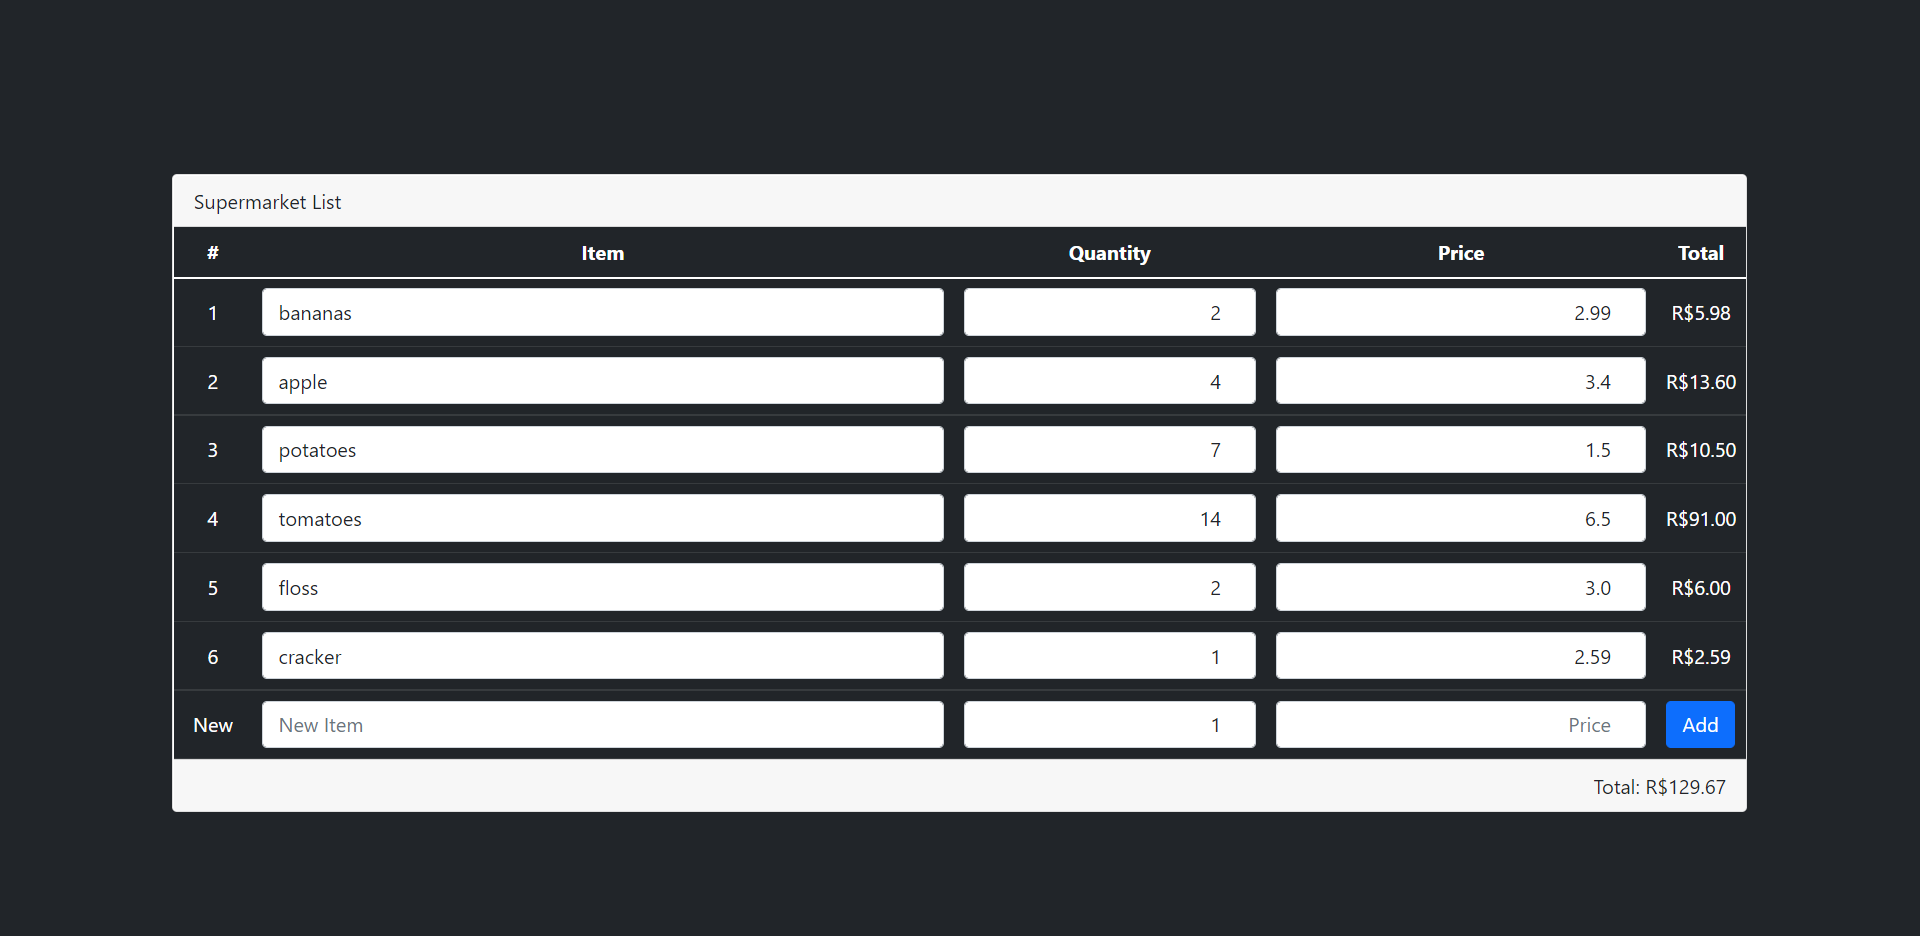
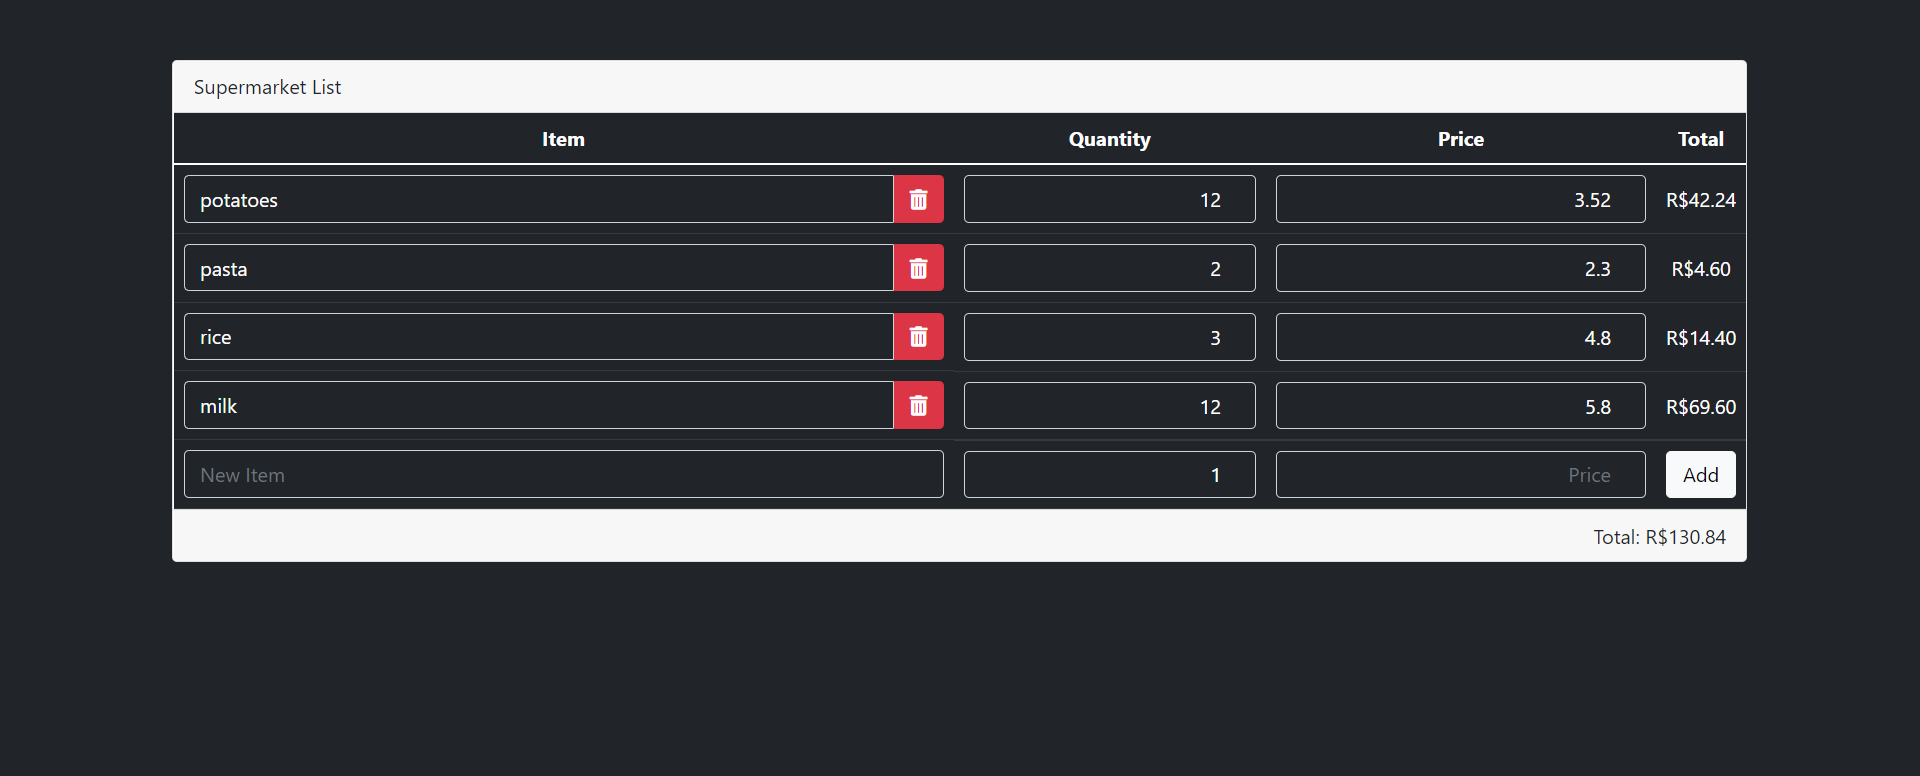
Improved style, added button to remove item and fixed bug where cache was not allowing page to update to newest version

diff --git a/content/index.html b/content/index.html
@@ -6,6 +6,7 @@
     <title>Supermarket List</title>
     <link href="https://cdn.jsdelivr.net/npm/bootstrap@5.1.3/dist/css/bootstrap.min.css" rel="stylesheet"
           integrity="sha384-1BmE4kWBq78iYhFldvKuhfTAU6auU8tT94WrHftjDbrCEXSU1oBoqyl2QvZ6jIW3" crossorigin="anonymous">
+    <link href="https://cdnjs.cloudflare.com/ajax/libs/font-awesome/5.13.0/css/all.min.css" rel="stylesheet">
     <link rel="stylesheet" href="/content/custom.css">
 </head>
 <body>
@@ -13,59 +14,57 @@
     <div class="row">
         <div class="col-md-1"></div>
         <div class="col-md-10">
-            <div class="card mx-2">
+            <div class="card mx-2 my-5">
                 <div class="card-header">
                     Supermarket List
                 </div>
                 <div class="card-body p-0">
                     <table class="table table-dark m-0">
                         <thead class="text-center">
-                        <th style="width: 5%;">#</th>
-                        <th style="width: 45%;">Item</th>
+                        <th style="width: 50%;">Item</th>
                         <th style="width: 20%;">Quantity</th>
                         <th style="width: 25%;">Price</th>
                         <th style="width: 5%;">Total</th>
                         </thead>
                         <tbody>
+                        {% for item in supermarket_list %}
                         <tr>
-                            {% for item in supermarket_list %}
-                                <tr>
-                                    <td class="text-center align-middle">
-                                        <span>{{loop.index}}</span>
-                                    </td>
-                                    <td>
-                                        <input class="form-control item" type="text" placeholder="Item"
-                                               name="Name" value="{{item.Name}}" onchange="changeItem(this)">
-                                    </td>
-                                    <td>
-                                        <input class="form-control item text-end" type="number" placeholder="Quantity"
-                                               name="Quantity" value="{{item.Quantity}}" onchange="changeItem(this)">
-                                    </td>
-                                    <td>
-                                        <input class="form-control item text-end" type="number" placeholder="Price"
-                                               name="Price" value="{{item.Price}}" onchange="changeItem(this)">
-                                    </td>
-                                    <td class="text-center align-middle">
-                                        {{item.TotalFormat}}
-                                    </td>
-                                </tr>
-                            {% endfor %}
-
-                        <td class="text-center align-middle">
-                            New
-                        </td>
-                        <td>
-                            <input class="form-control new-item" type="text" placeholder="New Item" name="Name">
-                        </td>
-                        <td>
-                            <input class="form-control new-item text-end" type="number" placeholder="Quantity" name="Quantity" value="1">
-                        </td>
-                        <td>
-                            <input class="form-control new-item text-end" type="number" placeholder="Price" name="Price">
-                        </td>
-                        <td class="text-start">
-                            <button class="btn btn-primary" type="button" onclick="newItem()">Add</button>
-                        </td>
+                            <td class="d-flex">
+                                <input type="hidden" name="Index" value="{{loop.index}}">
+                                <input class="form-control item w-100 input-with-btn" type="text" placeholder="Item"
+                                       name="Name" value="{{item.Name}}" onchange="changeItem(this)">
+                                <button class="btn btn-danger input-btn" type="button" onclick="removeItem(this)">
+                                    <i class="fas fa-trash-alt"></i>
+                                </button>
+                            </td>
+                            <td>
+                                <input class="form-control item text-end" type="number" placeholder="Quantity"
+                                       name="Quantity" value="{{item.Quantity}}" onchange="changeItem(this)">
+                            </td>
+                            <td>
+                                <input class="form-control item text-end" type="number" placeholder="Price"
+                                       name="Price" value="{{item.Price}}" onchange="changeItem(this)">
+                            </td>
+                            <td class="text-center align-middle">
+                                {{item.TotalFormat}}
+                            </td>
+                        </tr>
+                        {% endfor %}
+                        <tr>
+                            <td>
+                                <input class="form-control new-item" type="text" placeholder="New Item" name="Name">
+                            </td>
+                            <td>
+                                <input class="form-control new-item text-end" type="number" placeholder="Quantity"
+                                       name="Quantity" value="1">
+                            </td>
+                            <td>
+                                <input class="form-control new-item text-end" type="number" placeholder="Price"
+                                       name="Price">
+                            </td>
+                            <td class="text-start">
+                                <button class="btn btn-light w-100" type="button" onclick="newItem()">Add</button>
+                            </td>
                         </tr>
                         </tbody>
                     </table>
@@ -90,6 +89,8 @@
         }, 1000);
 
     });
+
+
 </script>
 </body>
 </html>

diff --git a/content/script.js b/content/script.js
@@ -38,7 +38,7 @@ function changeItem(element) {
     let data = {};
     let valid = true;
 
-    data["Index"] = $(parent).find(">:first-child>span").text();
+    data["Index"] = $(parent).find('>:first-child>input[name="Index"]').val();
 
     $(parent).find('.item').each(function (i, e) {
         if ($(e).val() === '') {
@@ -53,6 +53,27 @@ function changeItem(element) {
 
     $.ajax({
         url: "/ChangeItem",
+        type: "Post",
+        async: true,
+        data: data,
+        dataType: "json",
+        success: function (obj) {
+            window.location.reload();
+        },
+        error: function (obj) {
+            console.log(obj);
+        }
+    });
+
+}
+
+function removeItem(element) {
+    let data = {};
+
+    data["Index"] = $(element).siblings('input[name="Index"]').val();
+
+    $.ajax({
+        url: "/RemoveItem",
         type: "Post",
         async: true,
         data: data,

diff --git a/content/custom.css b/content/custom.css
@@ -7,7 +7,6 @@ body, .content {
 .content {
     display: flex;
     flex-direction: column;
-    justify-content: center;
 }
 
 body, html {
@@ -20,4 +19,25 @@ body, html {
     margin:0;
     padding:0;
     box-sizing: border-box;
+}
+
+.form-control {
+    background-color: unset;
+    color: white;
+    transition: ease all 0.3s;
+}
+
+    .form-control:focus {
+        background-color: unset;
+        color: white;
+    }
+
+.input-btn {
+    border-bottom-left-radius: 0px;
+    border-top-left-radius: 0px;
+}
+
+.input-with-btn {
+    border-bottom-right-radius: 0px;
+    border-top-right-radius: 0px;
 }

diff --git a/main.py b/main.py
@@ -55,8 +55,32 @@ def change_item():
     return jsonify(success=True)
 
 
+@app.route('/RemoveItem/', methods=['POST'])
+def remove_item():
+    global version
+
+    print(request.form)
+    index = int(request.form["Index"]) - 1
+
+    del supermarket_list[index]
+
+    pickle.dump(supermarket_list, open('supermarket_list.pickle', "wb"))
+    version += 1
+
+    return jsonify(success=True)
+
+
+@app.after_request
+def add_header(r):
+    r.headers["Cache-Control"] = "no-cache, no-store, must-revalidate"
+    r.headers["Pragma"] = "no-cache"
+    r.headers["Expires"] = "0"
+    r.headers['Cache-Control'] = 'public, max-age=0'
+    return r
+
+
 if __name__ == "__main__":
     if os.path.exists("supermarket_list.pickle"):
         supermarket_list = pickle.load(open('supermarket_list.pickle', "rb"))
 
-    app.run('0.0.0.0', 80, debug=False, use_reloader=True)
+    app.run('0.0.0.0', 80, debug=True, use_reloader=True)
